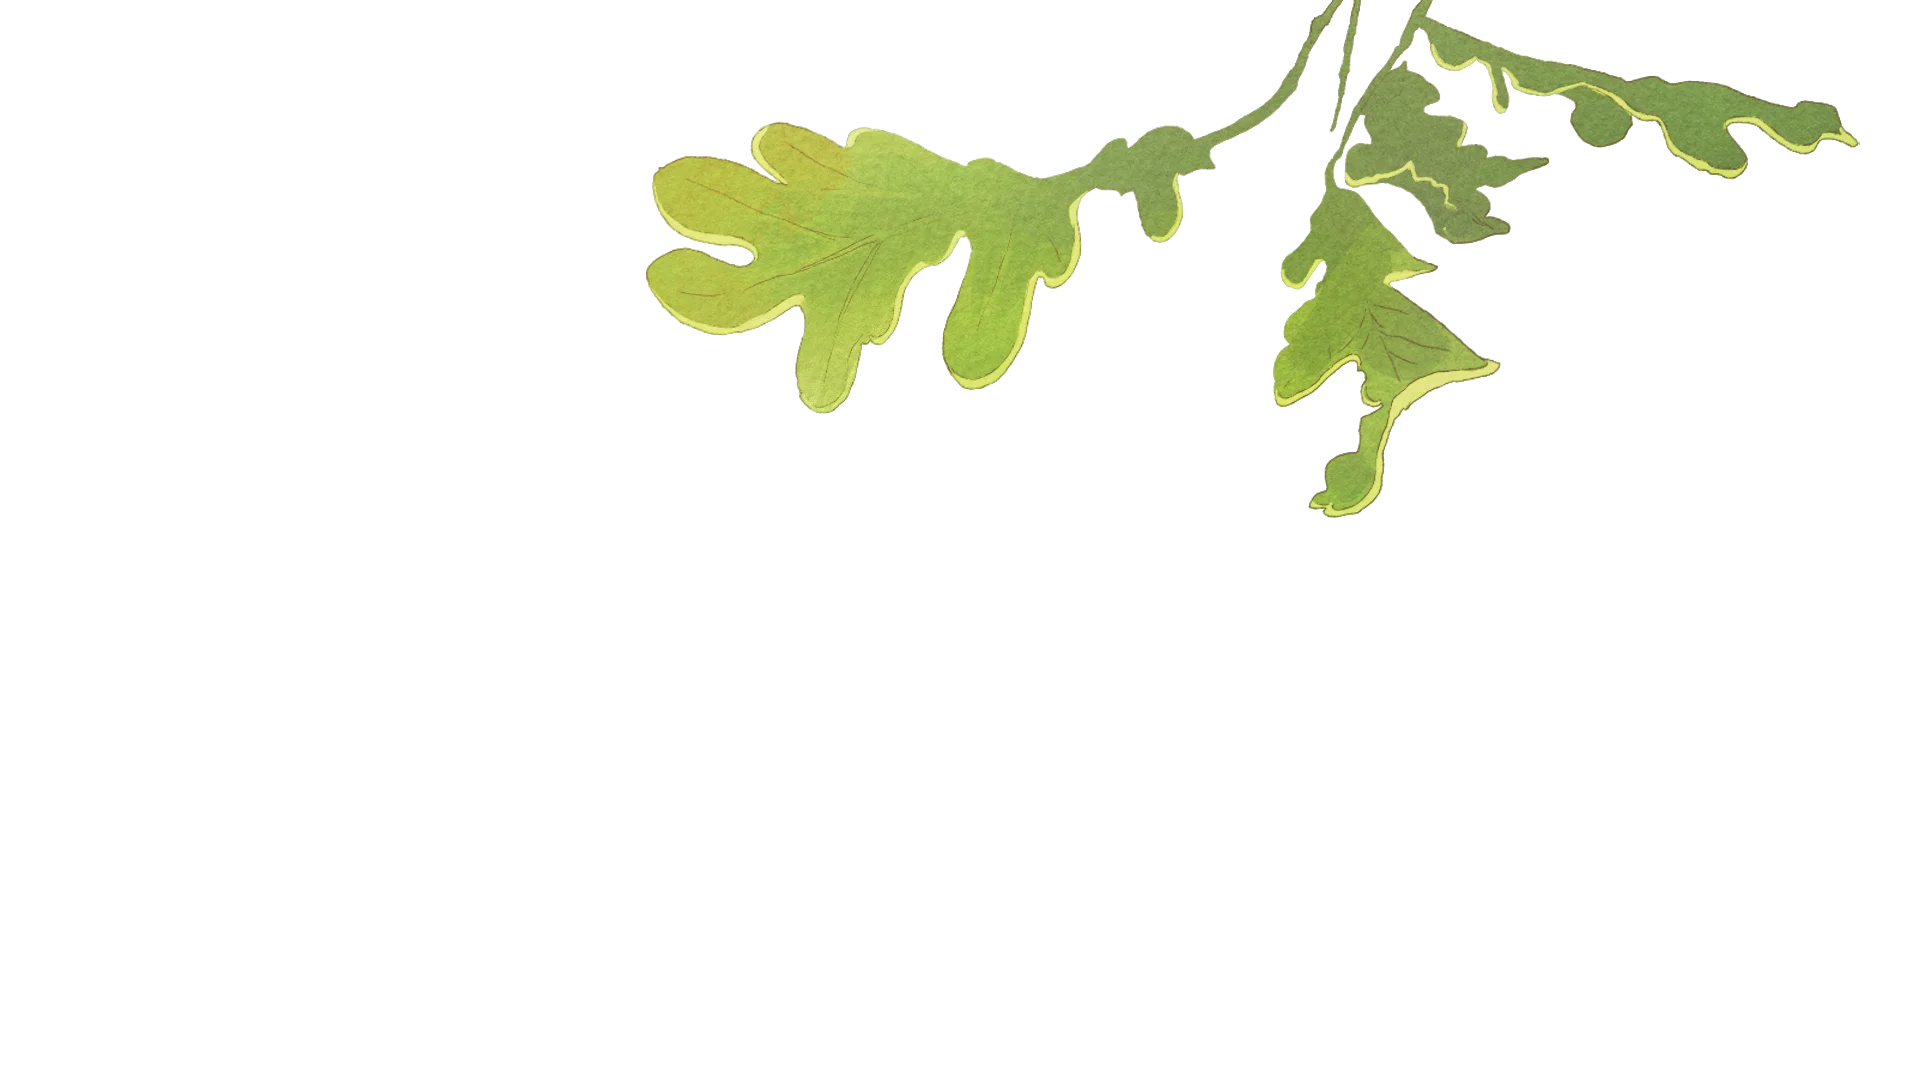
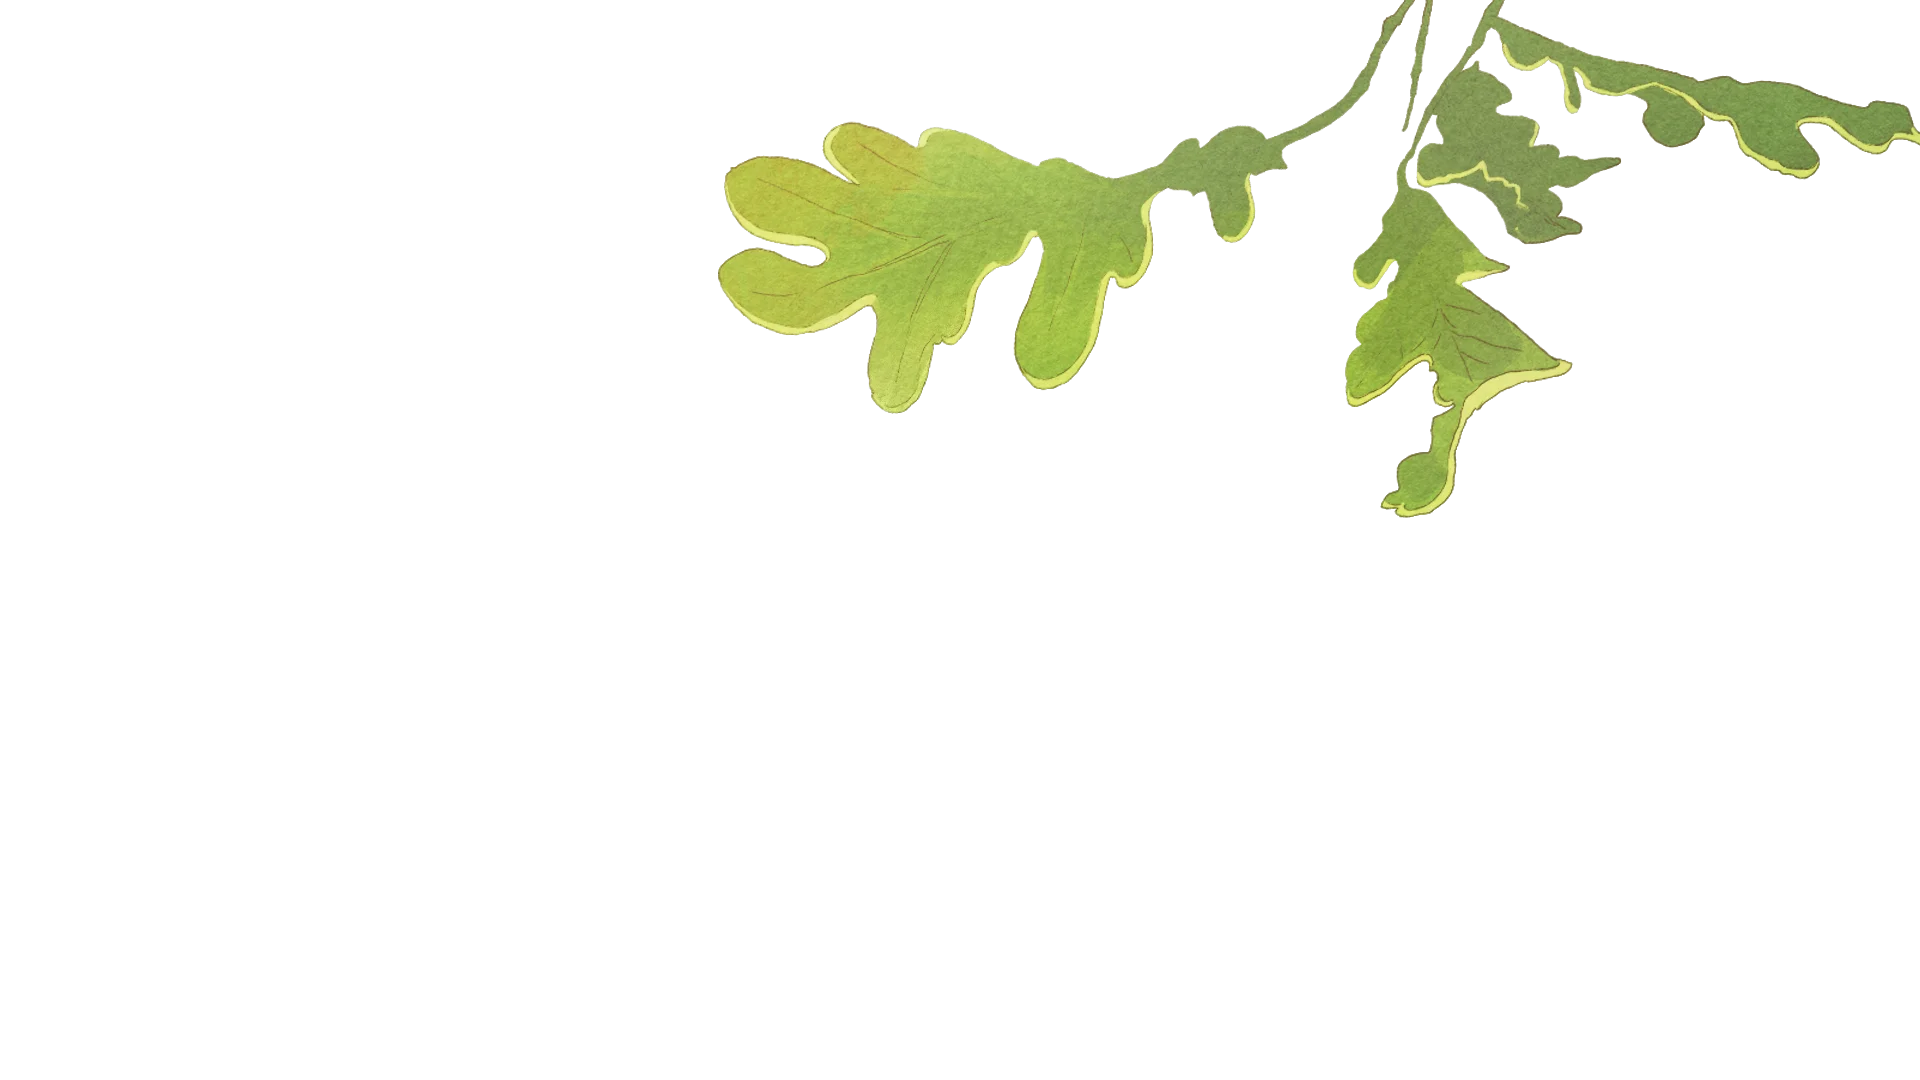
commit imporove scrolling container size and scrolling.

Changed region(s): [[0.3125, 0.0, 1.0, 0.4889]]

diff --git a/src/components/Leaf.jsx b/src/components/Leaf.jsx
@@ -6,6 +6,7 @@ import { ScrollTrigger } from "gsap/all";
 import InputForm from "./InputForm/InputForm";
 
 gsap.registerPlugin(ScrollTrigger);
+ScrollTrigger.normalizeScroll(true);
 
 /**
  * Import layers
@@ -52,7 +53,7 @@ for (let i = 0; i < frameCount; i++) {
  * Component
  */
 const Leaf = () => {
-  const scrollPages = 10;
+  const scrollPages = 4;
 
   // Refs
   const group1Refs = useRef([]);
@@ -79,12 +80,7 @@ const Leaf = () => {
     // Create a GSAP context
     let ctx = gsap.context(() => {
       // animation helper function
-      const animate = (
-        groupRefs,
-        end,
-        xPercentPos = 100,
-        xPercentNeg = -100
-      ) => {
+      const animate = (groupRefs, end, xPercentPos = 50, xPercentNeg = -50) => {
         groupRefs.current.forEach((leaf) => {
           if (leaf && leaf.dataset && leaf.dataset.position) {
             const position = leaf.dataset.position;
@@ -99,30 +95,38 @@ const Leaf = () => {
             }
 
             if (position.includes("top")) {
-              yPercent = -100;
+              yPercent = -50;
             } else if (position.includes("bottom")) {
-              yPercent = 100;
+              yPercent = 50;
             }
 
             gsap.to(leaf, {
               scrollTrigger: {
                 trigger: leaf,
-                start: "top 0", // When the top of the element hits the bottom of the viewport
+                start: "top top", // When the top of the element hits the bottom of the viewport
                 end: end,
                 scrub: 1,
+                markers: {
+                  startColor: "blue",
+                  endColor: "fuchsia",
+                  fontSize: "1rem",
+                  indent: 20,
+                },
               },
               xPercent: xPercent,
               yPercent: yPercent,
+              duration: 1,
+              onComplete: () => console.log("animate completed"),
             });
           }
         });
       };
 
-      animate(group1Refs, "200% bottom");
-      animate(group2Refs, "400% bottom");
-      animate(group3Refs, "600% bottom", 200); // Use 200 for branch of group 3
-      animate(group4Refs, "800% bottom");
-      animate(group5Refs, "1000% bottom");
+      animate(group1Refs, "100% top", 65);
+      animate(group2Refs, "150% top", 60);
+      animate(group3Refs, "200% top", 55); // Use 200 for branch of group 3
+      animate(group4Refs, "250% top", 50);
+      animate(group5Refs, "300% top", 45);
     });
 
     return () => ctx.revert(); // Cleanup animations when component unmounts
@@ -329,7 +333,7 @@ const Leaf = () => {
             src={group3Leaf2}
             alt='Leaf'
             data-group='3'
-            data-position='right'
+            data-position='right-top'
           />
           {/* Group 2 */}
           <img
@@ -412,7 +416,7 @@ const Leaf = () => {
             style={{ opacity: 0 }}
           >
             <div className='flex h-full flex-col items-center justify-center gap-11'>
-              <h1 className='text-center font-mottona text-8xl text-amber-900 md:text-9xl'>
+              <h1 className='bg-gradient-to-br from-amber-900 via-yellow-900 to-lime-900 bg-clip-text text-center font-mottona text-9xl text-[15rem] text-transparent'>
                 <span className='text-8xl'>Les amis de</span> <br />
                 <span>Tobie</span>
               </h1>
@@ -421,7 +425,7 @@ const Leaf = () => {
                 className=''
                 //  style={{ opacity: 0 }}
               >
-                <InputForm />
+                {/* <InputForm /> */}
               </div>
             </div>
           </div>

diff --git a/src/index.css b/src/index.css
@@ -8,17 +8,23 @@
 }
 
 .fullscreenImage {
-  @apply w-screen h-screen object-cover object-center will-change-transform;
+  @apply h-screen w-screen object-cover object-center will-change-transform;
 }
+
+/* @media screen and (max-width: 600px) {
+  .fullscreenImage {
+    @apply h-screen w-screen object-contain object-center will-change-transform;
+  }
+} */
 
 /* Hide scrollbar for Chrome, Safari and Opera */
-::-webkit-scrollbar {
+/* ::-webkit-scrollbar {
   display: none;
-}
+} */
 
 /* Hide scrollbar for IE, Edge and Firefox */
-html,
+/* html,
 body {
   -ms-overflow-style: none;
   scrollbar-width: none;
-}
+} */

diff --git a/src/components/InputForm/InputForm.jsx b/src/components/InputForm/InputForm.jsx
@@ -1,3 +1,4 @@
+/* eslint-disable react/no-unescaped-entities */
 import "./InputFormStyle.css";
 
 const InputForm = () => {
@@ -7,7 +8,7 @@ const InputForm = () => {
         <input
           className='rounded-2xl text-rose-500 outline-none transition-all duration-100 placeholder:text-rose-300 focus:border-2 focus:border-solid focus:border-slate-400'
           type='email'
-          placeholder='tobie@exemple.com'
+          placeholder='tobie.lolness@exemple.com'
         />
 
         <p className='px-1 text-slate-600'>
